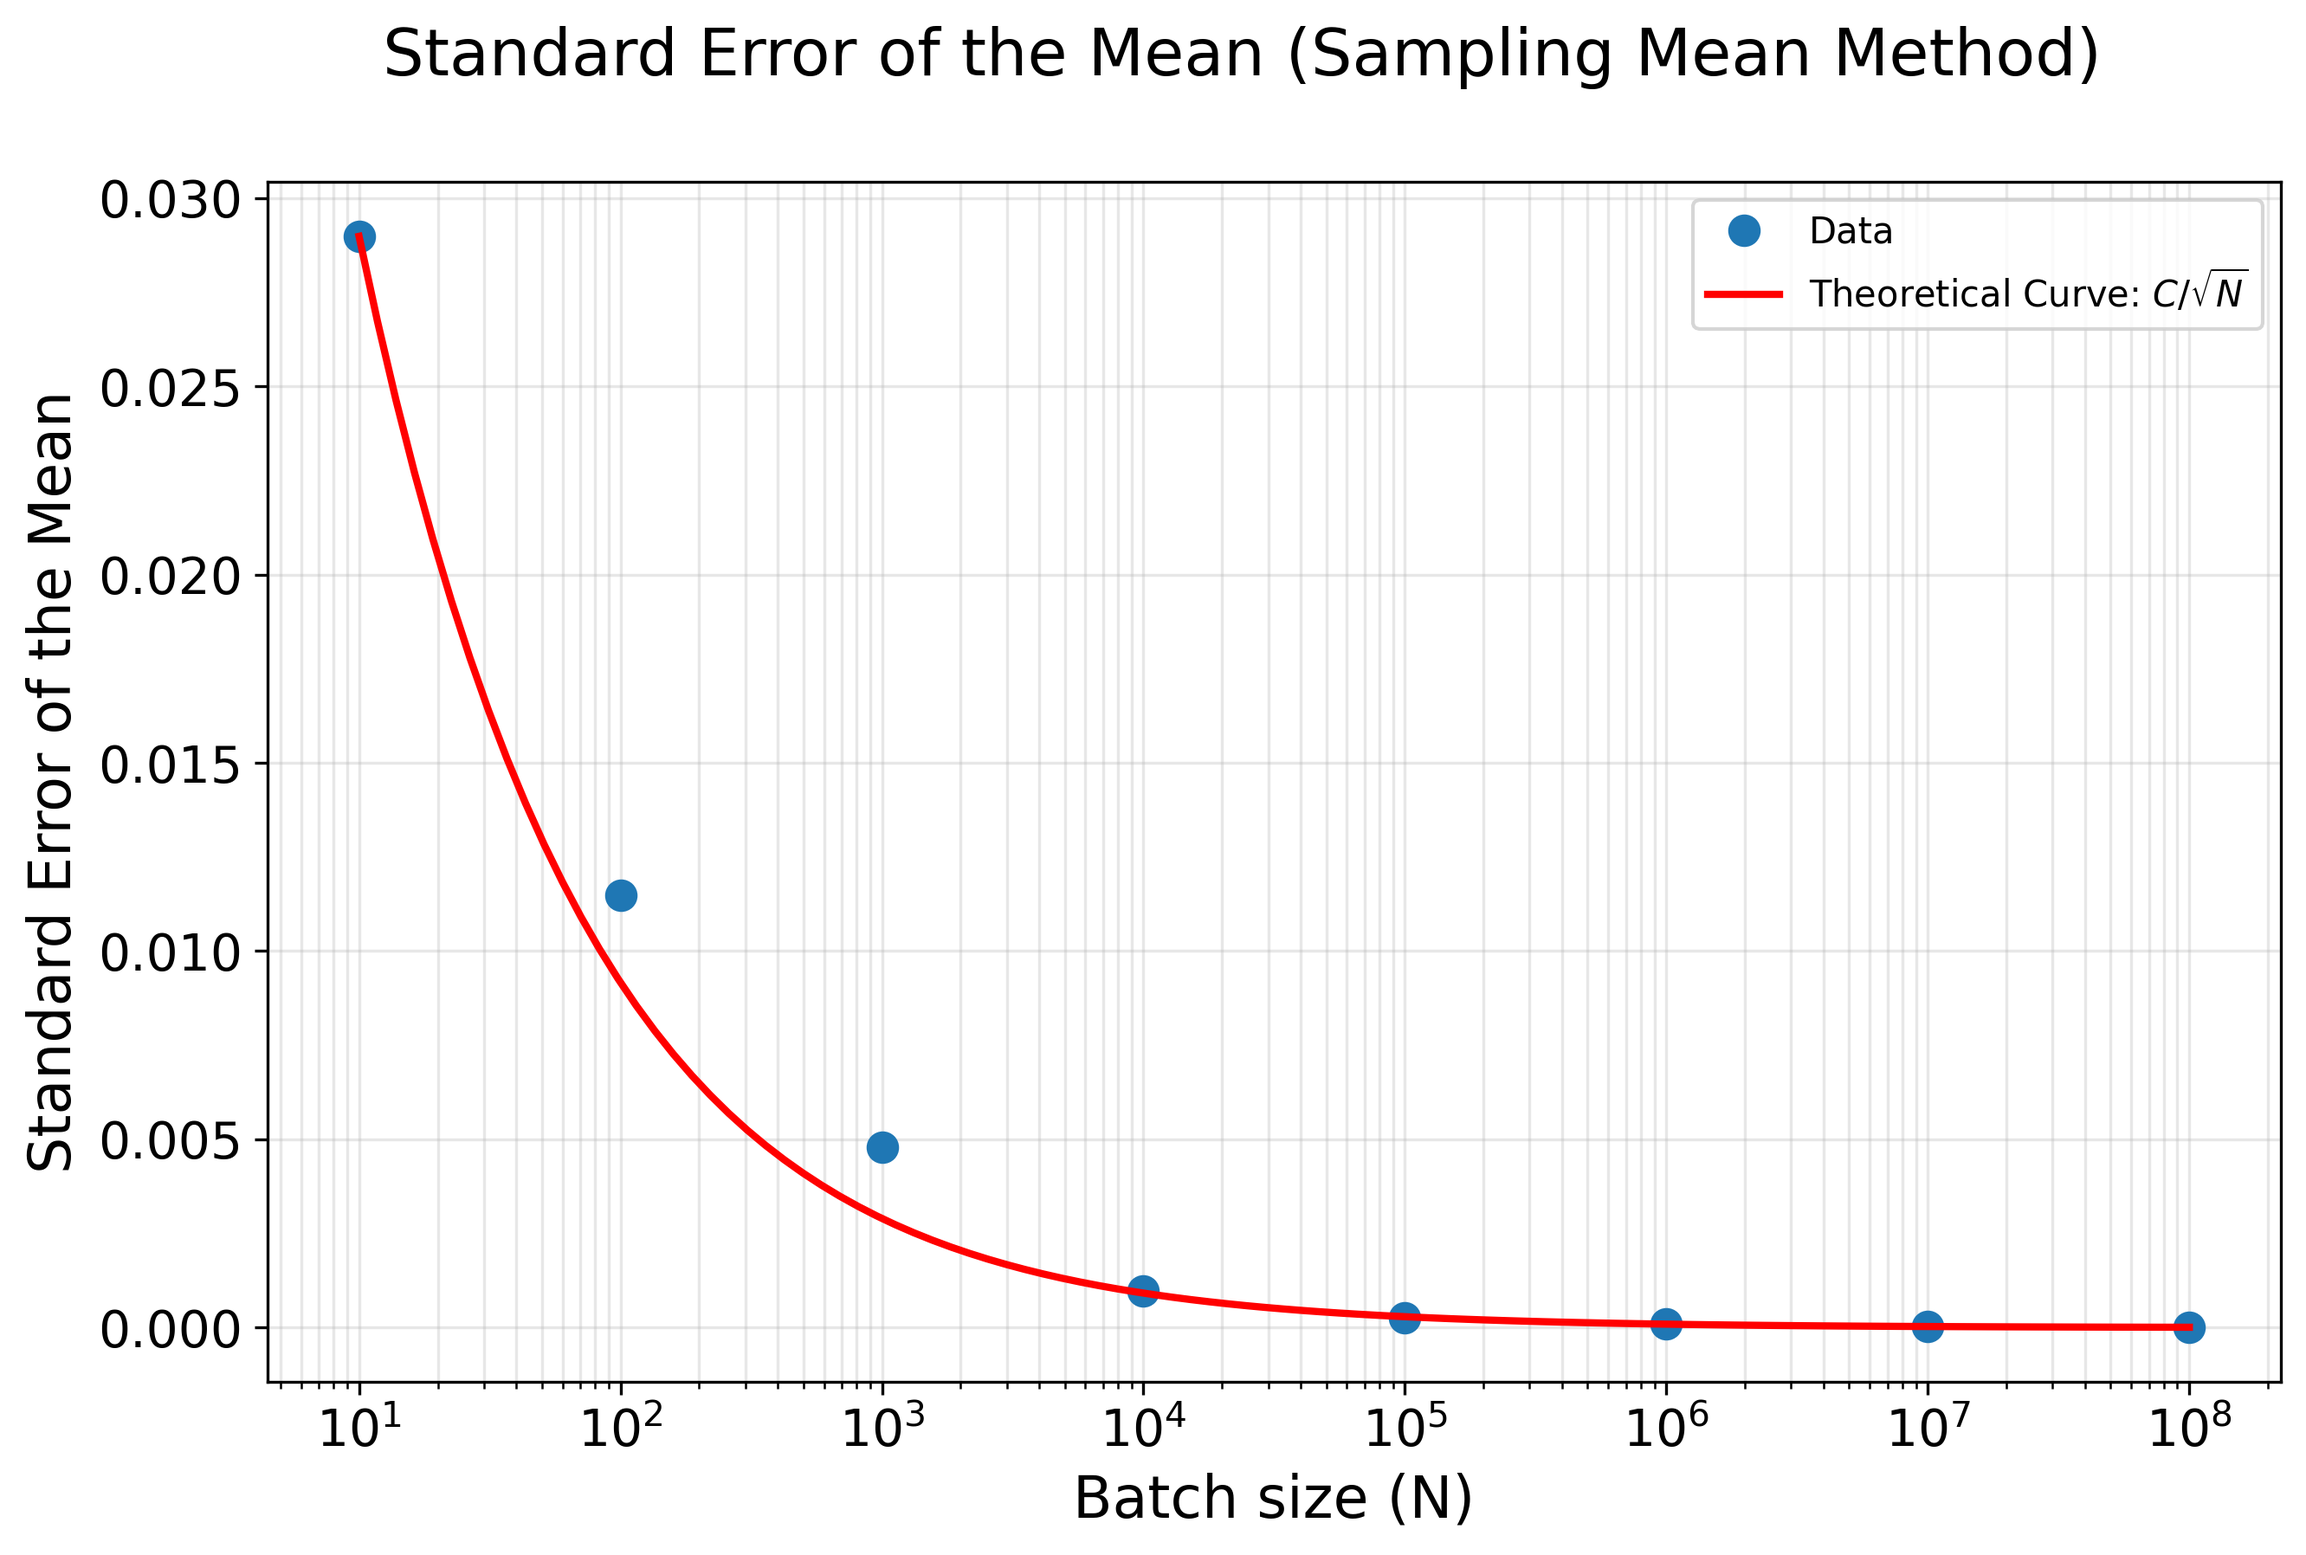
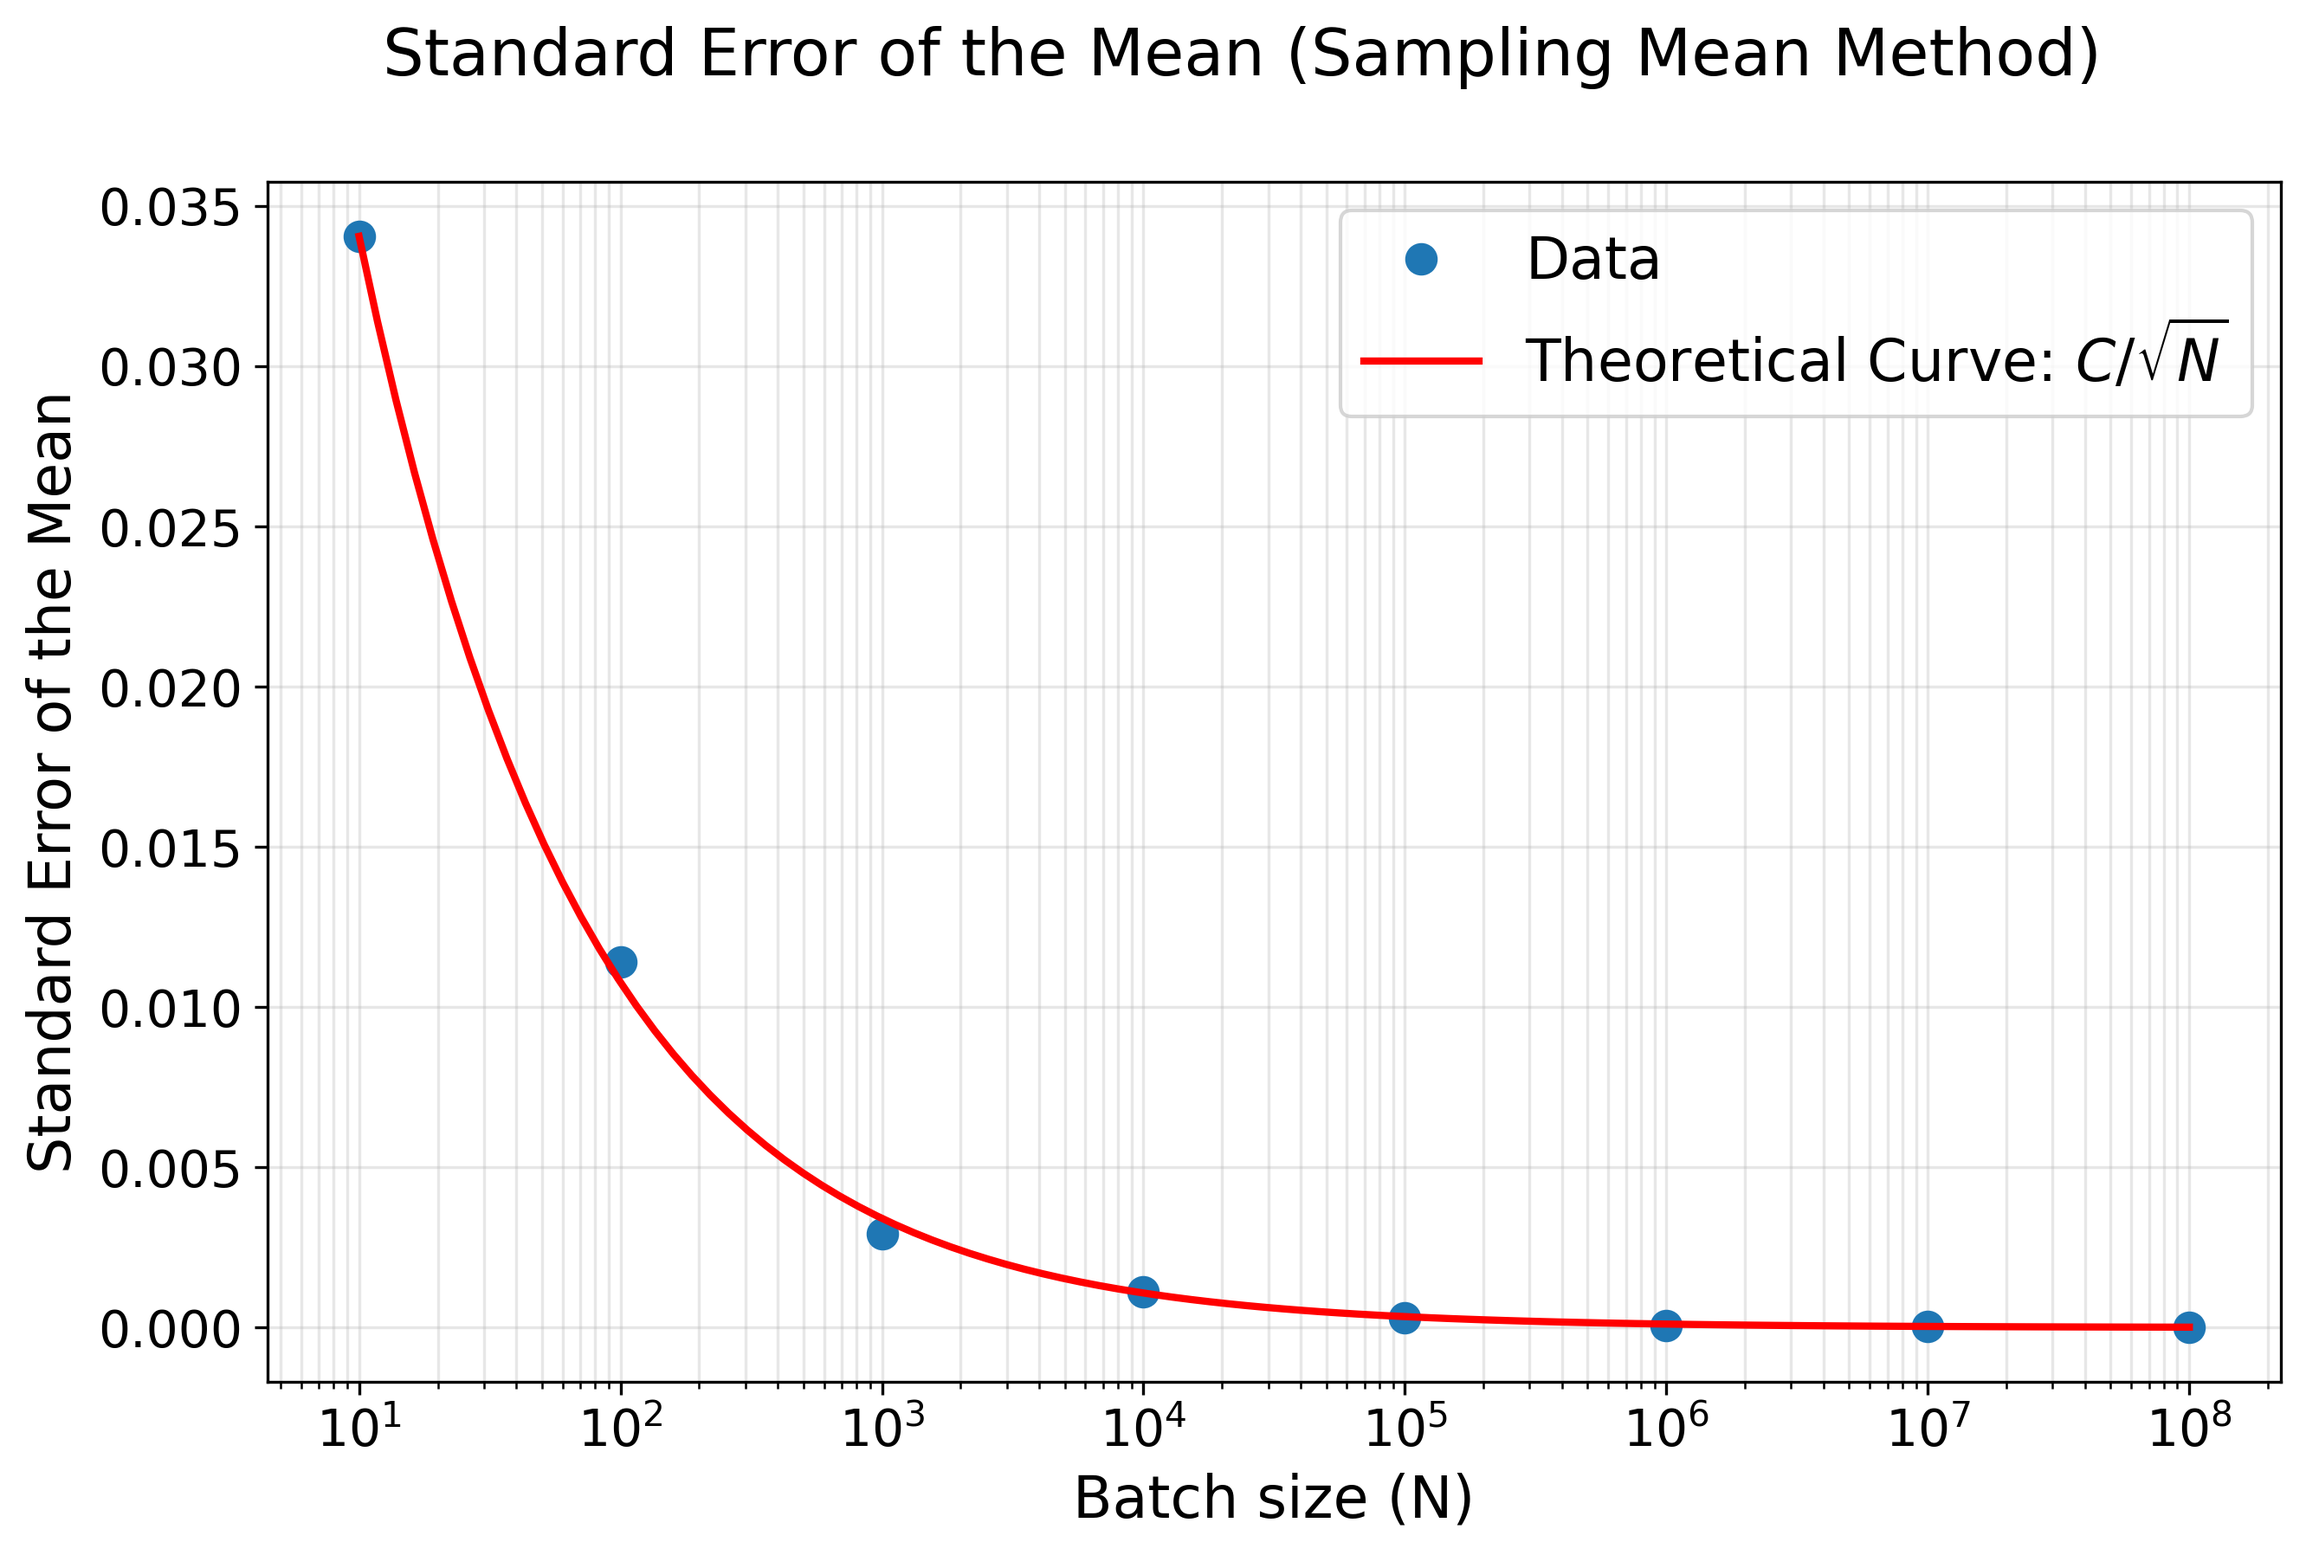
commit 1.11 secondo

diff --git a/exercise1/ex1_sampling.py b/exercise1/ex1_sampling.py
@@ -54,7 +54,7 @@ plt.xlabel('Batch size (N)', fontsize=16)
 plt.ylabel('Standard Error of the Mean', fontsize=16)
 plt.tick_params(axis='both', which='major', labelsize=14)
 plt.grid(True, alpha=0.3, which='both')
-plt.legend()
+plt.legend(fontsize=16)
 plt.savefig("std_error_sampling.png", dpi=300, bbox_inches='tight')
 plt.close()
 
@@ -80,7 +80,7 @@ plt.xlabel('Batch size (N)', fontsize=16)
 plt.ylabel('Standard Error of the Mean', fontsize=16)
 plt.tick_params(axis='both', which='major', labelsize=14)
 plt.grid(True, alpha=0.3, which='both')
-plt.legend()
+plt.legend(fontsize=16)
 plt.savefig("std_error_sampling_loglog_fit.png", dpi=300, bbox_inches='tight')
 plt.close()
 

diff --git a/exercise1/ex1_hitmiss.py b/exercise1/ex1_hitmiss.py
@@ -55,7 +55,7 @@ plt.xlabel('Batch size (N)', fontsize=16)
 plt.ylabel('Standard Error of the Mean', fontsize=16)
 plt.tick_params(axis='both', which='major', labelsize=14)
 plt.grid(True, alpha=0.3, which='both')
-plt.legend()
+plt.legend(fontsize=16)
 plt.savefig("std_error_hitmiss.png", dpi=300, bbox_inches='tight')
 plt.close()
 
@@ -81,7 +81,7 @@ plt.xlabel('Batch size (N)', fontsize=16)
 plt.ylabel('Standard Error of the Mean', fontsize=16)
 plt.tick_params(axis='both', which='major', labelsize=14)
 plt.grid(True, alpha=0.3, which='both')
-plt.legend()
+plt.legend(fontsize=16)
 plt.savefig("std_error_hitmiss_loglog_fit.png", dpi=300, bbox_inches='tight')
 plt.close()
 
